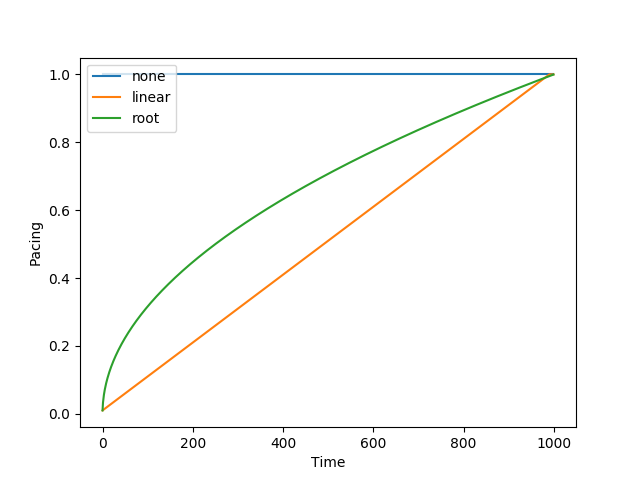
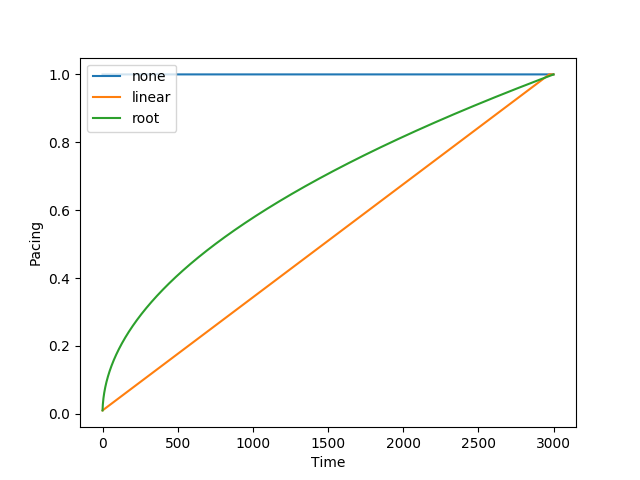
manually fixed merge conflict in run.py

diff --git a/pacing.py b/pacing.py
@@ -5,38 +5,41 @@ import numpy as np
 def none():
     return 1
 
-def linear(time, max_time, slope, bias):
+def linear(time, max_epoch, n_iters, slope, bias):
     """ Simple linear pacing function that takes in a slope and a bias 
     and computes the pacing over time. If not slope is None, then compute 
     slope based on the max time.
-    @param time (int): epoch
-    @param max_time (int): max epoch
+    @param time (int): current train iter
+    @param max_epoch (int): max epoch
+    @param n_iters (int): number of iterations per epoch
     @param slope (int): step size per unit of time
-    @param bias (int): initial value at t=0
+    @param bias (int): initial value at t=0 in (0,1)
     @returns pacing (int): pacing value in (0,1)
     """
     if slope is None:
-        slope = 1 / max_time
+        slope = 1 / (max_epoch * n_iters)
     return min([1, slope * time + bias])
 
-def root(time, max_time, bias, p=2):
+def root(time, max_epoch, n_iters, bias, p=2):
     """ Root pacing function.
     @param time (int): epoch
-    @param max_time (int): max epoch
-    @param bias (int): bias
+    @param max_epoch (int): max epoch
+    @param n_iters (int): number of iterations per epoch
+    @param bias (int): bias in (0,1)
     @param p (int): root-p sharpness 
     @returns pacing (int): pacing value in (0,1)
     """
-    return min([1, np.sqrt(time * ((1 - bias**2) / max_time) + bias**2)])
+    return min([1, np.sqrt(time * ((1 - bias**2) / (n_iters * max_epoch)) + bias**2)])
 
 ### ------------------------------
 
-def pacing_data(train_data, dev_data, time=None, max_time=None, method=None):
+def pacing_data(train_data, dev_data, time=None, max_epoch=None, n_iters=None, method=None):
     """ Gets the data according to the specified pacing function.
     @param train_data (list): list of tuple of sents
     @param dev_data (list): list of tuple of sents
-    @param time (int): epoch 
-    @param max_time (int): max epoch
+    @param time (int): current train iteration
+    @param max_epoch (int): max epoch
+    @param n_iters (int): number of iterations per epoch
     @param method (str): desired pacing function
     @returns paced_dataset (Dataset): dataset of (current_train_data, current_dev_data)
     """
@@ -47,10 +50,16 @@ def pacing_data(train_data, dev_data, time=None, max_time=None, method=None):
     if method == "none":
         pacing = none()
     elif method == "linear":
-        pacing = linear(time=time, max_time=max_time, slope=None, bias=0.1)
+        pacing = linear(
+            time=time, 
+            max_epoch=max_epoch, 
+            n_iters=n_iters, 
+            slope=None, 
+            bias=0.05
+        )
         print("linear pacing is:", pacing)
     elif method == "root":
-        pacing = root(time=time, max_time=max_time, bias=0.1)
+        pacing = root(time=time, max_epoch=max_epoch, bias=0.1)
         print("root pacing is:", pacing)
 
     # Slice dataset according to pacing
@@ -65,19 +74,20 @@ def pacing_data(train_data, dev_data, time=None, max_time=None, method=None):
 if __name__ == "__main__":
     import matplotlib.pyplot as plt
     print("Creating plot for pacing functions.")
-    T = 1000
-    x = list(range(T))
+    T = 30
+    n_iters = 100
+    x = list(range(T*n_iters))
     
     # None
     y = [none() for t in x]
     plt.plot(x,y)
 
     # Linear
-    y = [linear(t, T, slope=None, bias=0.01) for t in x]
+    y = [linear(t, T, n_iters, slope=None, bias=0.01) for t in x]
     plt.plot(x,y)
     
     # Root
-    y = [root(t, T, bias=0.01) for t in x]
+    y = [root(t, T, n_iters, bias=0.01) for t in x]
     plt.plot(x,y)
 
     plt.legend(['none', 'linear', 'root'], loc='upper left')

diff --git a/run.py b/run.py
@@ -208,24 +208,24 @@ def train(args: Dict):
     print('Using pacing function: {}'.format(args['--pacing-name']))
     while True:
         epoch += 1
+        for _ in range(n_iters):
+            # Get pacing data according to train_iter
+            current_train_data, current_dev_data = pacing_data(
+                train_data, 
+                dev_data, 
+                time=train_iter, 
+                max_epoch=int(args['--max-epoch']),
+                n_iters=n_iters,
+                method=args['--pacing-name']
+            )
 
-        current_train_data, current_dev_data = pacing_data(
-            train_data,
-            dev_data,
-            time=epoch,
-            max_time=int(args['--max-epoch']),
-            method=args['--pacing-name']
-        )
-
-        # Uniformly sample batches from the paced dataset
-        for _ in range(len(current_train_data) // train_batch_size):
+            # Uniformly sample batches from the paced dataset
             src_sents, tgt_sents = get_pacing_batch(
                 current_train_data,
                 batch_size=train_batch_size,
                 shuffle=True
             )
 
-        # for src_sents, tgt_sents in batch_iter(current_train_data, batch_size=train_batch_size, shuffle=False):
             train_iter += 1
 
             # ERROR START

diff --git a/scoring.py b/scoring.py
@@ -91,3 +91,9 @@ def balance_order(order, dataset):
     is balanced, i.e. each class has equal number of samples.
     """
     pass
+
+# if __name__ == "__main__":
+#     print("Creating difficulty visualizations.")
+    
+    
+
